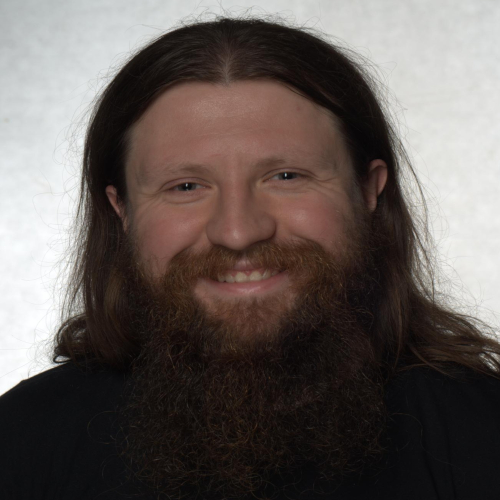
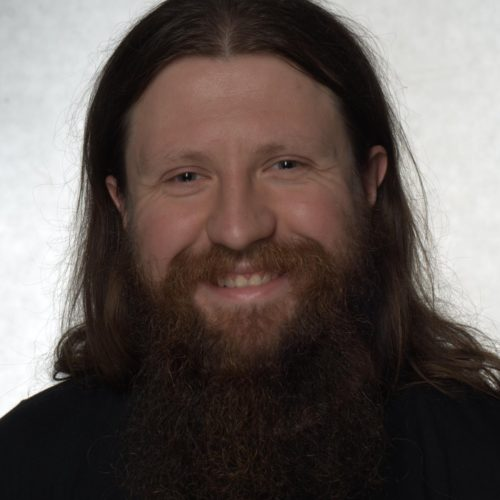
Lodz2019 - ladne zdjęcia speakerow

diff --git a/content/sites/lodz2019/speakers/alex-fortune/index.md b/content/sites/lodz2019/speakers/alex-fortune/index.md
@@ -4,14 +4,11 @@ speakername: "Alex Fortune"
 presentationtitle:
   - "Wycieczka od góry do dołu"
 resources:
-  - src: "foteczka.png"
+  - src: "alex.jpg"
     name: "photo"
 ---
-Mówię o sobie "komputerowy poliglota", bo niestraszne są mi zarówno piękne
-javowe klasy jak i zobfuskowany kod maszynowy. W trakcie swojej paruletniej
-kariery miałem przyjemność zajmować się bardzo szerokim spektrum zagadnień -
-od projektowania architektury dużych systemów biznesowych
-( w BlaBlaCar i GOG.com ), po szukanie błędów bezpieczeństwa w kodzie
-przeglądarek internetowych i systemów operacyjnych ( w Microsofcie ).
+
+Mówię o sobie "komputerowy poliglota", bo niestraszne są mi zarówno piękne javowe klasy jak i zobfuskowany kod maszynowy. W trakcie swojej paruletniej kariery miałem przyjemność zajmować się bardzo szerokim spektrum zagadnień - od projektowania architektury dużych systemów biznesowych (w BlaBlaCar i GOG.com), po szukanie błędów bezpieczeństwa w kodzie przeglądarek internetowych i systemów operacyjnych (w Microsofcie).
+
 Prywatnie zajmuje się bezpieczeństwem różnego rodzaju urządzeń,
 zwiedzam świat i kontempluję życie :)
